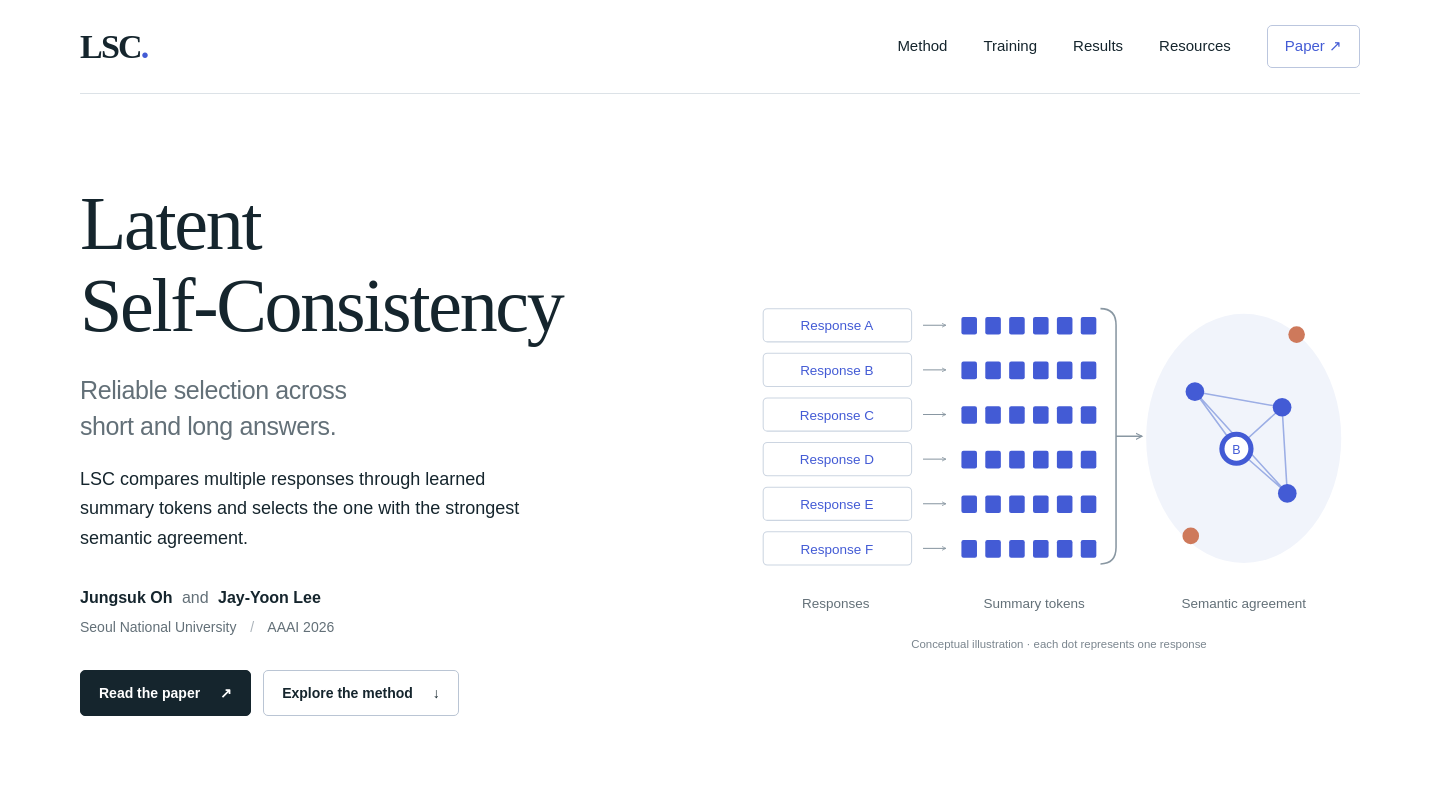
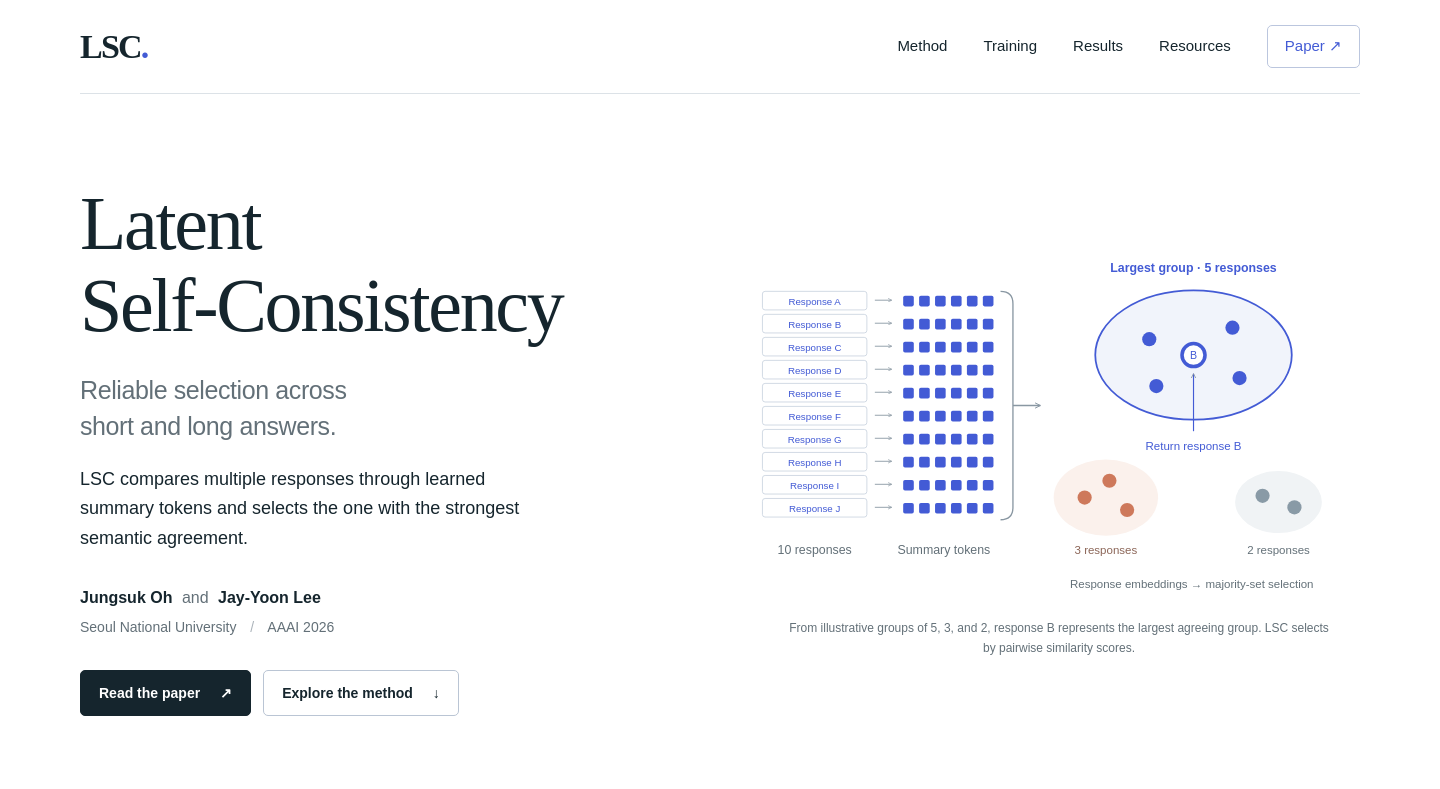
docs: highlight the largest semantic group in the LSC overview

Changed region(s): [[0.5312, 0.365, 0.9062, 0.8517], [0.7812, 0.3346, 0.9062, 0.4563], [0.8125, 0.6692, 0.8438, 0.6996]]

diff --git a/docs/index.html b/docs/index.html
@@ -37,20 +37,34 @@
         <div class="actions"><a class="button primary" href="https://arxiv.org/abs/2508.18395">Read the paper <span aria-hidden="true">↗</span></a><a class="button" href="#method">Explore the method <span aria-hidden="true">↓</span></a></div>
       </div>
       <figure class="hero-figure">
-        <svg viewBox="0 0 580 410" role="img" aria-labelledby="hero-svg-title hero-svg-desc">
-          <title id="hero-svg-title">From candidate responses to semantic agreement</title>
-          <desc id="hero-svg-desc">Six responses are encoded with learned summary tokens. Four candidates form a shared semantic neighborhood; two outliers are separate. One existing response is selected. This is a schematic, not a measured embedding projection.</desc>
+        <svg viewBox="0 0 680 410" role="img" aria-labelledby="hero-svg-title hero-svg-desc">
+          <title id="hero-svg-title">Select a representative from the largest agreeing group</title>
+          <desc id="hero-svg-desc">Ten response embeddings form three illustrative groups of five, three, and two responses. The largest group, A through E, has a blue outline. Response B within that group is ringed as the selected response. This conceptual grouping illustrates majority-set selection; LSC computes pairwise similarity scores rather than explicitly clustering responses.</desc>
           <defs><marker id="arrow" viewBox="0 0 10 10" refX="8" refY="5" markerWidth="5" markerHeight="5" orient="auto-start-reverse"><path d="M0 1 8 5 0 9" fill="none" stroke="#8997a2" stroke-width="1.5"/></marker></defs>
           <g id="hero-responses"></g>
-          <path d="M330 70 Q345 70 345 86 V300 Q345 316 330 316 M345 193 H370" fill="none" stroke="#8997a2" stroke-width="1.5" marker-end="url(#arrow)"/>
-          <ellipse cx="468" cy="195" rx="94" ry="120" fill="#f1f4fb"/>
-          <g stroke="#9caee5" stroke-width="1.5"><path d="M461 205 421 150 M461 205 505 165 M461 205 510 248 M421 150 505 165 M505 165 510 248 M421 150 510 248"/></g>
-          <g fill="#435bd5"><circle cx="421" cy="150" r="9"/><circle cx="505" cy="165" r="9"/><circle cx="510" cy="248" r="9"/><circle cx="461" cy="205" r="14" fill="#fff" stroke="#435bd5" stroke-width="5"/></g>
-          <g fill="#ce795b"><circle cx="519" cy="95" r="8"/><circle cx="417" cy="289" r="8"/></g>
-          <text x="461" y="210" text-anchor="middle" font-size="12" fill="#435bd5" font-family="Arial,sans-serif">B</text>
-          <g font-family="Arial,sans-serif" fill="#637078" font-size="13"><text x="75" y="358" text-anchor="middle">Responses</text><text x="266" y="358" text-anchor="middle">Summary tokens</text><text x="468" y="358" text-anchor="middle">Semantic agreement</text></g>
-          <text x="290" y="397" text-anchor="middle" fill="#7a858e" font-family="Arial,sans-serif" font-size="11">Conceptual illustration · each dot represents one response</text>
+          <path d="M274 58 Q288 58 288 72 V302 Q288 316 274 316 M288 187 H319" fill="none" stroke="#8997a2" stroke-width="1.5" marker-end="url(#arrow)"/>
+          <g class="hero-cluster majority-cluster" data-size="5">
+            <ellipse cx="492" cy="130" rx="111" ry="73" fill="#f1f4fb" stroke="#435bd5" stroke-width="2"/>
+            <text x="492" y="36" text-anchor="middle" fill="#435bd5" font-family="Arial,sans-serif" font-size="14" font-weight="600">Largest group · 5 responses</text>
+            <g fill="#435bd5"><circle data-response="A" cx="442" cy="112" r="8"/><circle data-response="B" cx="492" cy="130" r="13" fill="#fff" stroke="#435bd5" stroke-width="4"/><circle data-response="C" cx="536" cy="99" r="8"/><circle data-response="D" cx="544" cy="156" r="8"/><circle data-response="E" cx="450" cy="165" r="8"/></g>
+            <text x="492" y="135" text-anchor="middle" fill="#435bd5" font-family="Arial,sans-serif" font-size="12">B</text>
+            <path d="M492 216 V151" fill="none" stroke="#435bd5" stroke-width="1.3" marker-end="url(#arrow)"/>
+            <text x="492" y="237" text-anchor="middle" fill="#435bd5" font-family="Arial,sans-serif" font-size="13">Return response B</text>
+          </g>
+          <g class="hero-cluster" data-size="3">
+            <ellipse cx="393" cy="291" rx="59" ry="43" fill="#fbf1ec"/>
+            <g fill="#ce795b"><circle data-response="F" cx="369" cy="291" r="8"/><circle data-response="G" cx="397" cy="272" r="8"/><circle data-response="H" cx="417" cy="305" r="8"/></g>
+            <text x="393" y="355" text-anchor="middle" fill="#8b6557" font-family="Arial,sans-serif" font-size="13">3 responses</text>
+          </g>
+          <g class="hero-cluster" data-size="2">
+            <ellipse cx="588" cy="296" rx="49" ry="35" fill="#f0f3f5"/>
+            <g fill="#899aa6"><circle data-response="I" cx="570" cy="289" r="8"/><circle data-response="J" cx="606" cy="302" r="8"/></g>
+            <text x="588" y="355" text-anchor="middle" fill="#637078" font-family="Arial,sans-serif" font-size="13">2 responses</text>
+          </g>
+          <g font-family="Arial,sans-serif" fill="#637078" font-size="14"><text x="64" y="355" text-anchor="middle">10 responses</text><text x="210" y="355" text-anchor="middle">Summary tokens</text></g>
+          <text x="490" y="393" text-anchor="middle" fill="#637078" font-family="Arial,sans-serif" font-size="13">Response embeddings → majority-set selection</text>
         </svg>
+        <figcaption class="caption hero-caption">From illustrative groups of 5, 3, and 2, response B represents the largest agreeing group. LSC selects by pairwise similarity scores.</figcaption>
       </figure>
     </section>
 

diff --git a/docs/assets/site.js b/docs/assets/site.js
@@ -20,9 +20,10 @@ let results;
 
 function drawHero() {
   const svg = $('#hero-responses');
-  svg.innerHTML = letters.map((letter, i) => {
-    const y = 70 + i * 43;
-    return `<g><rect x="5" y="${y}" width="143" height="32" rx="4" fill="#fff" stroke="#ccd5e1"/><text x="76" y="${y + 21}" text-anchor="middle" fill="#435bd5" font-family="Arial,sans-serif" font-size="13">Response ${letter}</text><path d="M159 ${y + 16} H181" stroke="#8997a2" fill="none" marker-end="url(#arrow)"/>${Array.from({length: 6}, (_, j) => `<rect x="${196 + 23 * j}" y="${y + 8}" width="15" height="17" rx="2" fill="#435bd5"/>`).join('')}</g>`;
+  svg.innerHTML = Array.from({length: 10}, (_, i) => {
+    const letter = String.fromCharCode(65 + i);
+    const y = 58 + i * 26;
+    return `<g data-hero-response="${letter}"><rect x="5" y="${y}" width="118" height="21" rx="3" fill="#fff" stroke="#ccd5e1"/><text x="64" y="${y + 15}" text-anchor="middle" fill="#435bd5" font-family="Arial,sans-serif" font-size="11">Response ${letter}</text><path d="M132 ${y + 10} H151" stroke="#8997a2" fill="none" marker-end="url(#arrow)"/>${Array.from({length: 6}, (_, j) => `<rect x="${164 + 18 * j}" y="${y + 5}" width="12" height="12" rx="2" fill="#435bd5"/>`).join('')}</g>`;
   }).join('');
 }
 

diff --git a/docs/assets/style.css b/docs/assets/style.css
@@ -41,6 +41,7 @@ p{margin-top:15px}
 .button.primary{background:var(--ink);color:#fff;border-color:var(--ink)}
 .button.primary:hover{background:#30424e}
 .hero-figure{align-self:center}
+.hero-caption{text-align:center;margin-inline:auto;max-width:540px}
 .section{padding-block:85px;border-top:1px solid var(--line)}
 .section-intro{display:grid;grid-template-columns:1fr 1fr;gap:80px;align-items:center;margin-bottom:42px}
 .section-intro>p{margin:0;color:var(--muted);max-width:530px;font-size:18px}

diff --git a/docs/README.md b/docs/README.md
@@ -39,6 +39,12 @@ pairwise similarities form a matrix, and LSC returns the highest-scoring respons
 Response IDs A–F remain consistent throughout. There are no decorative response
 length bars or hidden stages.
 
+The hero overview separately shows ten responses, with illustrative semantic
+groups of five, three, and two. The largest group and its representative response
+B are emphasized. Group boundaries are conceptual; LSC still selects through
+pairwise similarity scores, not an explicit clustering step. The detailed
+six-response walkthrough is a separate illustration.
+
 The training section follows the paper's Method and Appendices A/C. It covers
 dataset composition, pseudo-label extraction, the MMLU explanation transformation,
 question-group filtering/splitting, supervised contrastive learning, and updates
